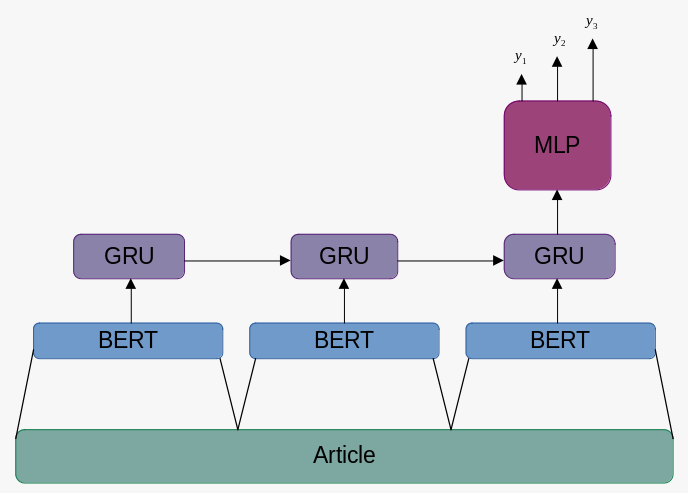
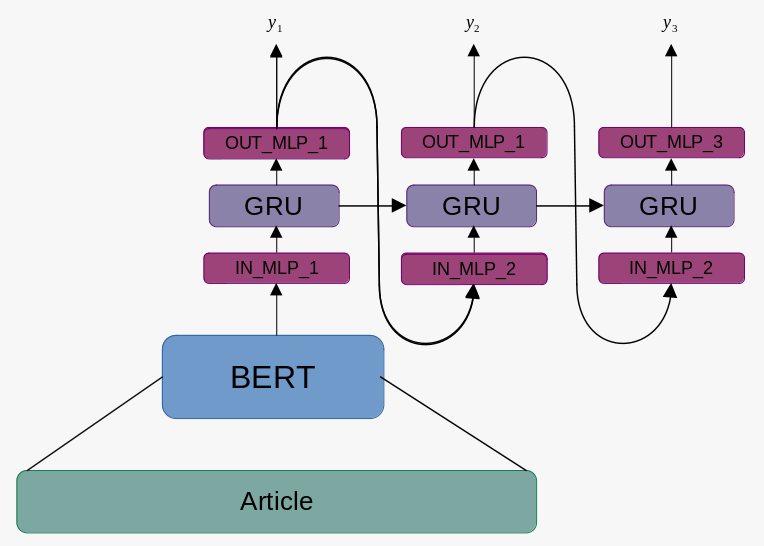
added Model description to README and method to meassure weight numbers

diff --git a/main.py b/main.py
@@ -3,7 +3,9 @@ main.py
 
 :)
 """
-from utilities import train_model
+import torch
+
+from utilities import train_model, get_param_sizes
 from model import DBPedia, HierarchicalRNN
 
 
@@ -11,6 +13,7 @@ if __name__ == "__main__":
 
     file_fmt = "processed_data/DBPEDIA_{split}_{var}.pt"
     obs = 2000 # set this to some lower number when testing
+    device = torch.device("cuda:0" if torch.cuda.is_available() else "cpu")
 
     train = DBPedia(file_fmt.format(split="train", var="embeddings"),
                     file_fmt.format(split="train", var="labels"),
@@ -24,11 +27,14 @@ if __name__ == "__main__":
 
     model = HierarchicalRNN(
         input_size=768, emb_size=100, output_sizes=(9, 70, 219)
-    )
+    ).to(device)
 
     train_opts = {
         "calc_acc_every": 5,
+        "device": device,
     }
+
+    param_sizes = get_param_sizes(model)
 
     train_model(model, train, val, test, show_plts=True,
                 train_opts=train_opts)

diff --git a/utilities.py b/utilities.py
@@ -334,5 +334,20 @@ def train_model(model, train_data, valid_data, test_data=None, data_loader=lambd
             train_fig.savefig(kwargs.get("train_fig_out", "train_curve.png"))
 
 
+def _tot_params_helper(model):
+    return sum(p.numel() for p in model.parameters() if p.requires_grad)
+
+
+def get_param_sizes(model):
+
+    ret = dict()
+    ret["RNN"] = _tot_params_helper(model.rnn)
+    for i in range(len(model.embedding_fcs)):
+        ret[f"emb_fc_{i+1}"] = _tot_params_helper(model.embedding_fcs[i])
+        ret[f"clf_fc_{i+1}"] = _tot_params_helper(model.classifier_fcs[i])
+    ret["total"] = sum(n_params for n_params in ret.values())
+    return ret
+
+
 if __name__ == "__main__":
     pass

diff --git a/README.md b/README.md
@@ -3,25 +3,49 @@
 ## Introduction
 
 The goal of this project is to create a deep learning model to categorize topics in the form of Wikipedia
-article summaries into 3 progressively finer sets of categories. 
+article summaries into 3 progressively finer sets of categories.
 
 ## Model
 
-Our model uses pretrained BERT encoders to encode chunks plain text into a more information dense tensor that the 
-RNN (composed of Gated Recurrent Units) uses to transform variable length sequence into a fixed size. At this point,
-a set of multilayer perceptrons use this fixed size input to predict the classification of each category level.
-
+We tackle the issue of hierarchical classification using an encoder-decoder
+architecture composed of a transformer-based encoder and RNN-based decoder.
+An illustration of the model can be seen below.
 
 ![model](readme_assets/model_diagram.png)
 
-The various parameters are found in the Recurrent Neural Network and in the final Multilayer Perceptron. [](TODO_add_in_numbers)
+### Encoder
+
+Our model used a pre-trained BERT transformer to encode input text into a
+single dense tensor. The chosen implementation is the `bert-base-uncased` by
+Hugging Face, which was pretrained on the BookCorpus and English Wikipedia
+datasets. The whole model contains 109,482,240 pre-trained parameters, none of
+which are further tuned as part of our application.
+
+### Decoder
+
+Our decoder model takes in a text embeddings and generates three separate
+predictions, each corresponding to one level of class specificity. Each level
+has its own MLP to used to project the last level's output onto the input
+dimension of an RNN; we call these embedding MLPs. Much like other sequence
+generation tasks, the first level takes in the encoder output (the text embedding).
+Each level also has its own MLP used to project the RNN output onto a class
+prediction for that specific level; these are called classifier MLPs. In
+between these MLPs, we utilize a common RNN body composed of Gated Recurrent
+Units to enable weight sharing and information passing from one level to the next.
+We chose an RNN instead of a Transformer body for our decoder as the former
+proved to be more flexible for generating sequences with different input and output
+dimensions. Additionally, we would like for encourage a certain degree of
+information decay over the network to embody how each level should mosty use
+information of the previous level.
+
+The parameter distribution of each decoder component is a follows:
 
 ## Data
 
 We used the [DBPedia Classes Kaggle dataset](https://www.kaggle.com/datasets/danofer/dbpedia-classes) for training
-and evaluating our model. It contains 342780 data points, consisting of a Wikipedia article's summary, and it's 
+and evaluating our model. It contains 342780 data points, consisting of a Wikipedia article's summary, and it's
 classification in 3 levels of categories, ranging from broad categories such as 'Agent' or 'Place', to specific
-categories such as 'Earthquake' or 'SolarEclipse'. 
+categories such as 'Earthquake' or 'SolarEclipse'.
 
 ## Training
 
